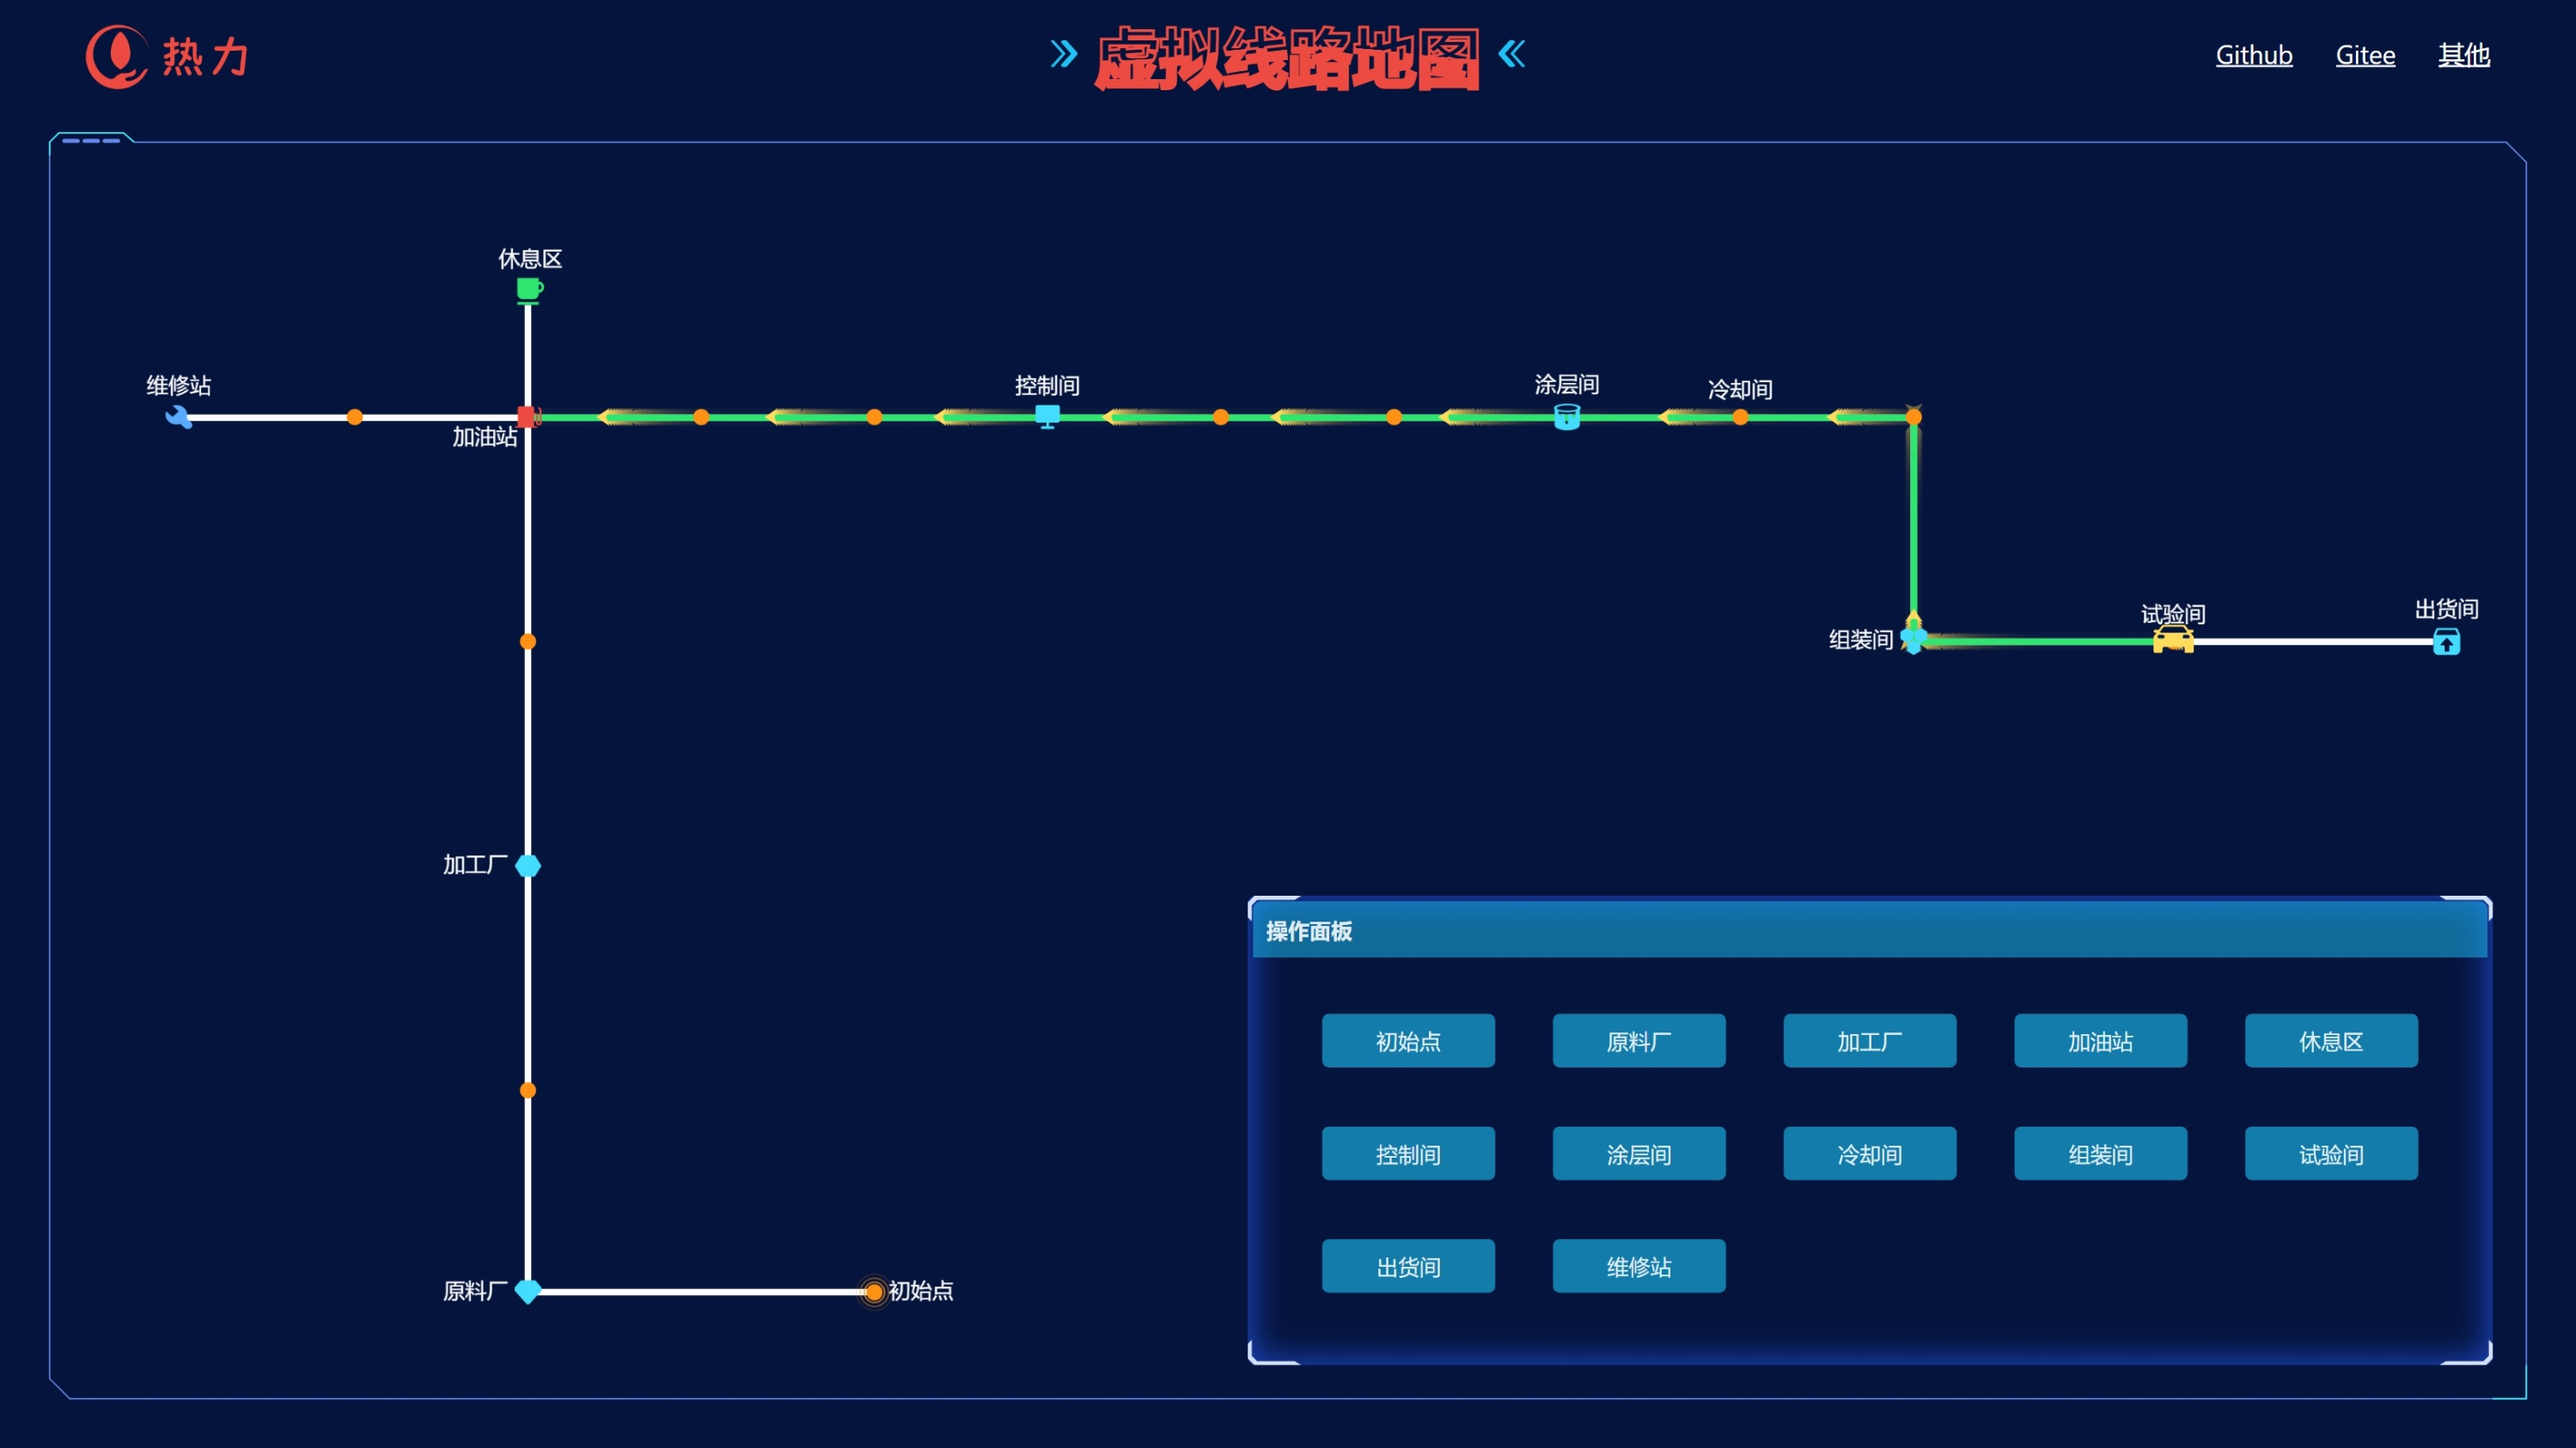
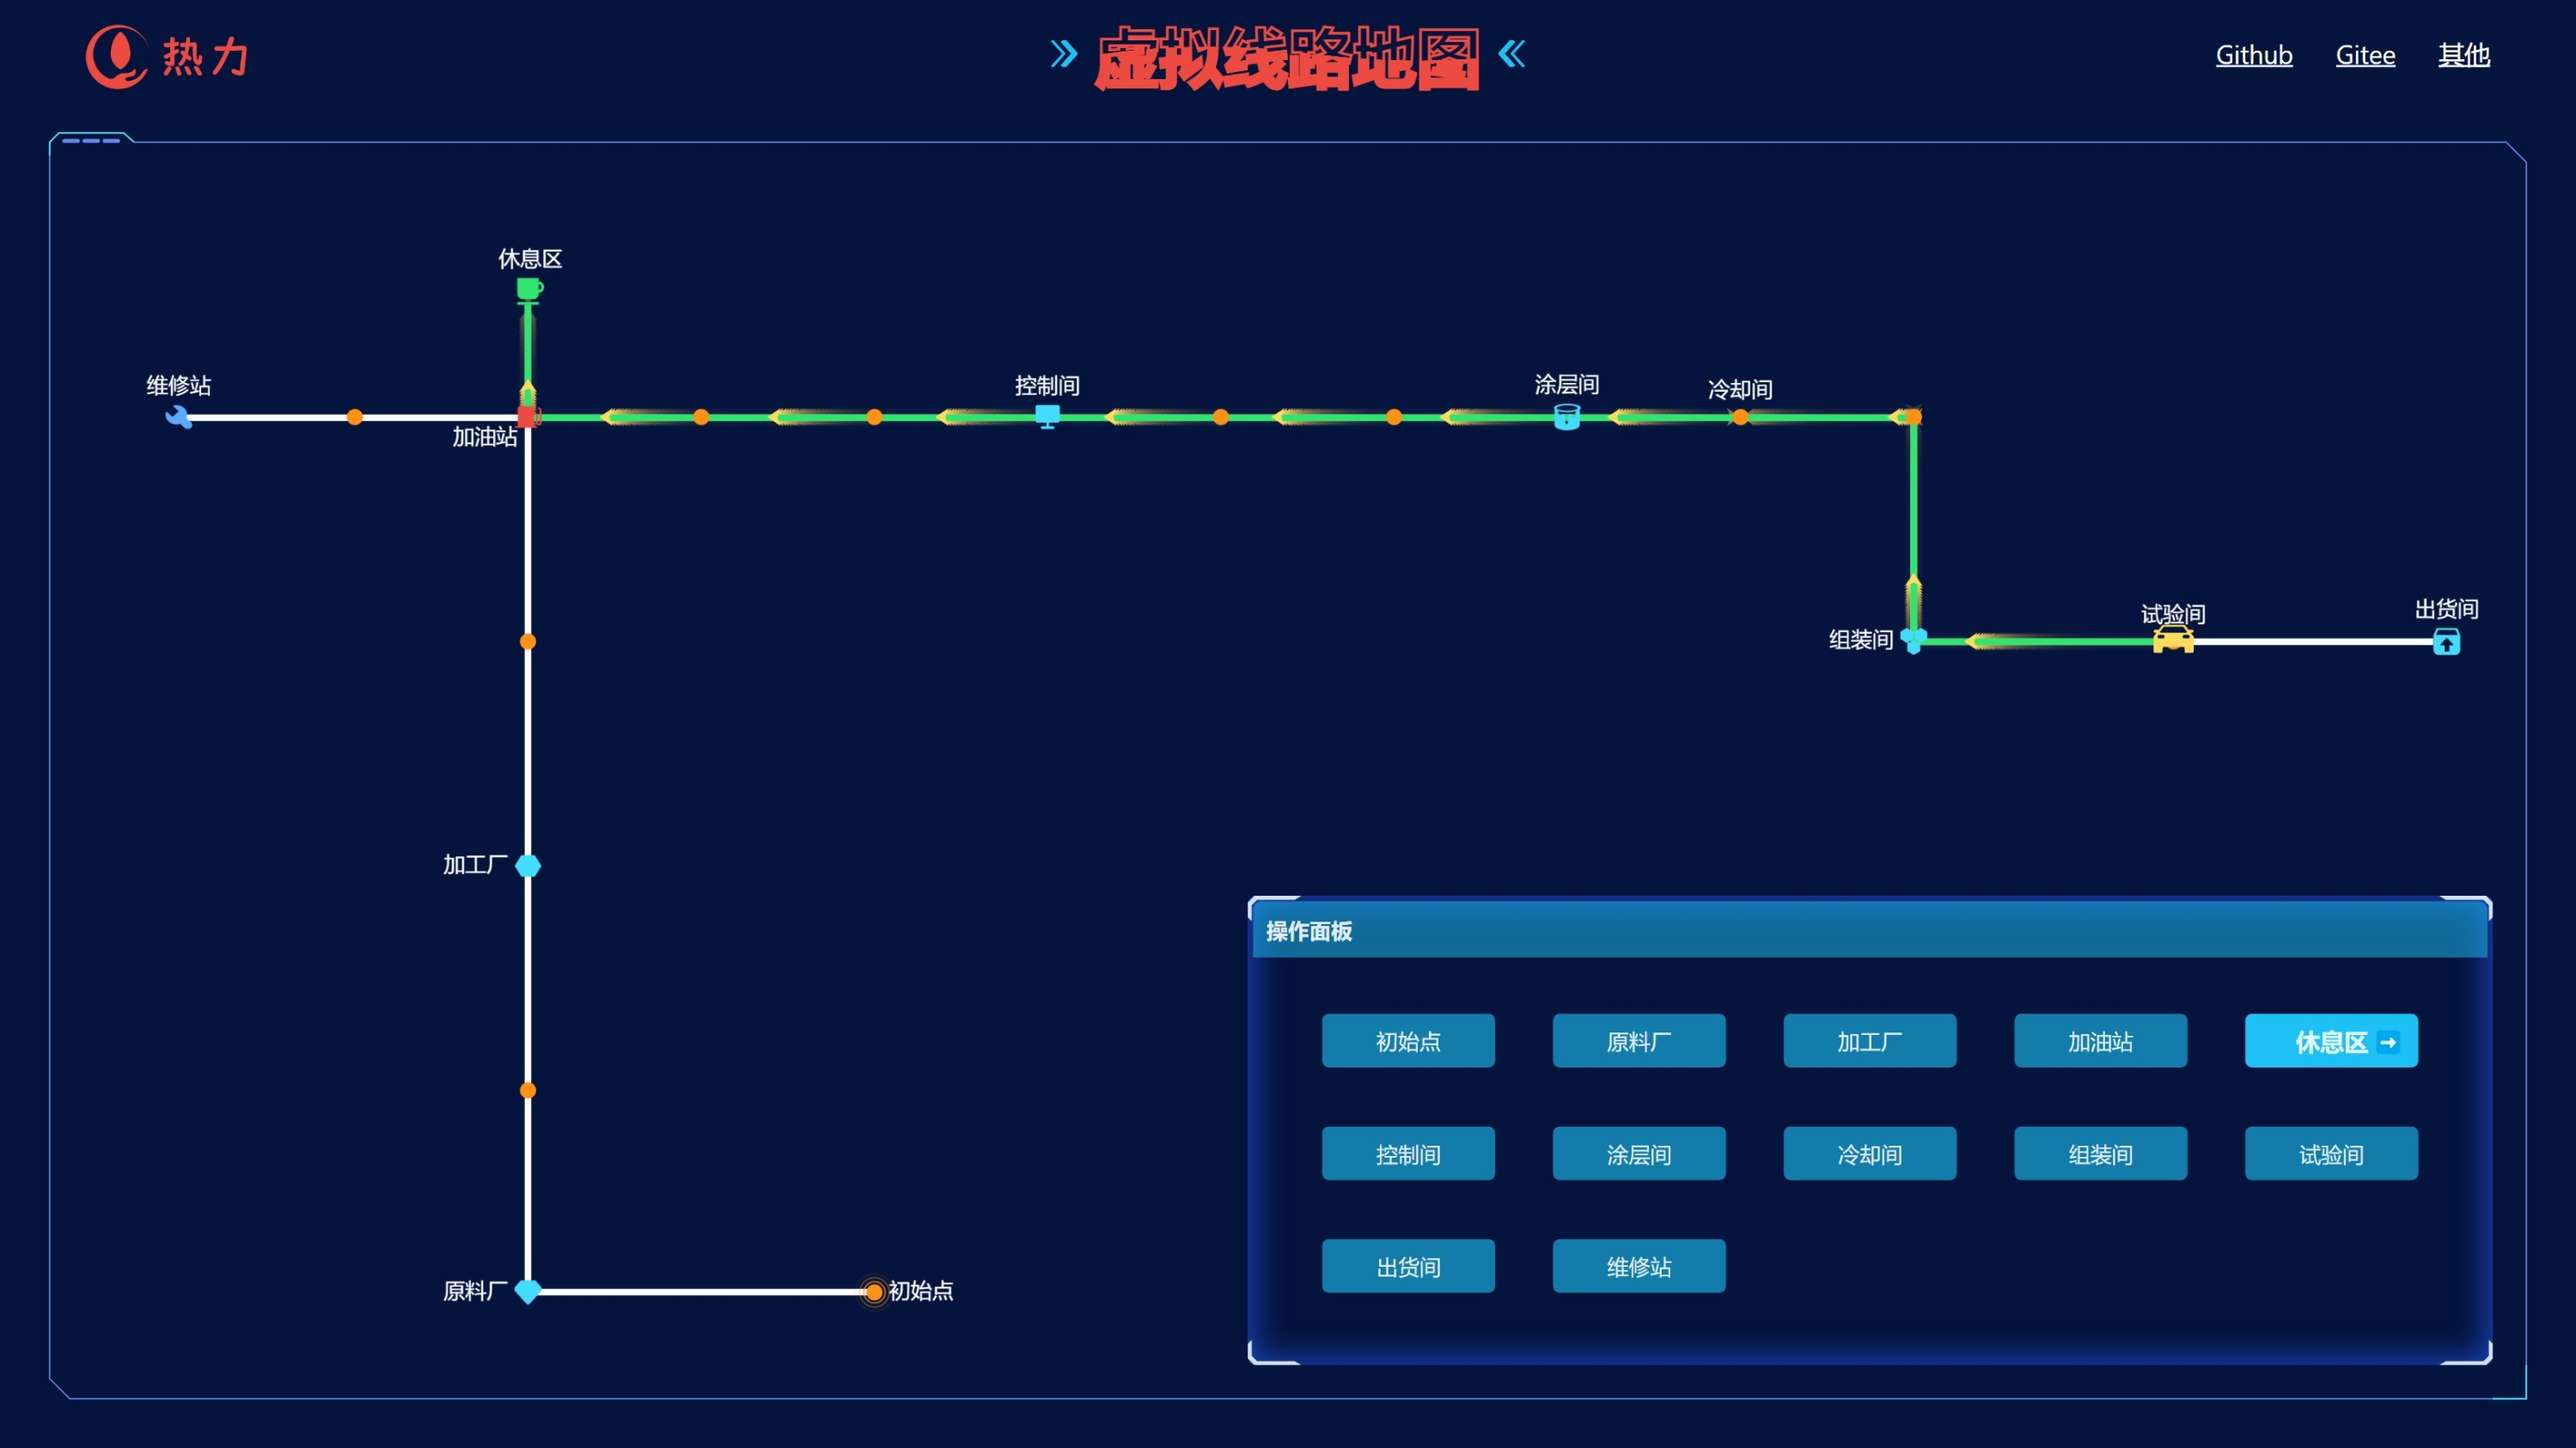
更新选中效果

diff --git a/src/views/pathVirtual.vue b/src/views/pathVirtual.vue
@@ -6,6 +6,7 @@ import { sites } from '@/components/chartPathVirtual/data'
 import { useCarStore } from '@store/car'
 
 const carStore = useCarStore()
+const carTo = computed(() => carStore.to)
 
 defineOptions({
   name: 'V-home'
@@ -49,7 +50,7 @@ const go = (idx: number) => {
                   <div
                     v-for="item of operations"
                     v-bind:key="item.index"
-                    class="operation-item"
+                    :class="{ 'operation-item': true, active: item.index === carTo.index }"
                     @click="go(item.index)"
                   >
                     {{ item.nodeName }} <span class="go">➡</span>
@@ -119,7 +120,8 @@ const go = (idx: number) => {
             position: absolute;
             right: 0;
           }
-          &:hover {
+          &:hover,
+          &.active {
             background: #1dc1f5;
             font-weight: bold;
             font-size: 18px;
